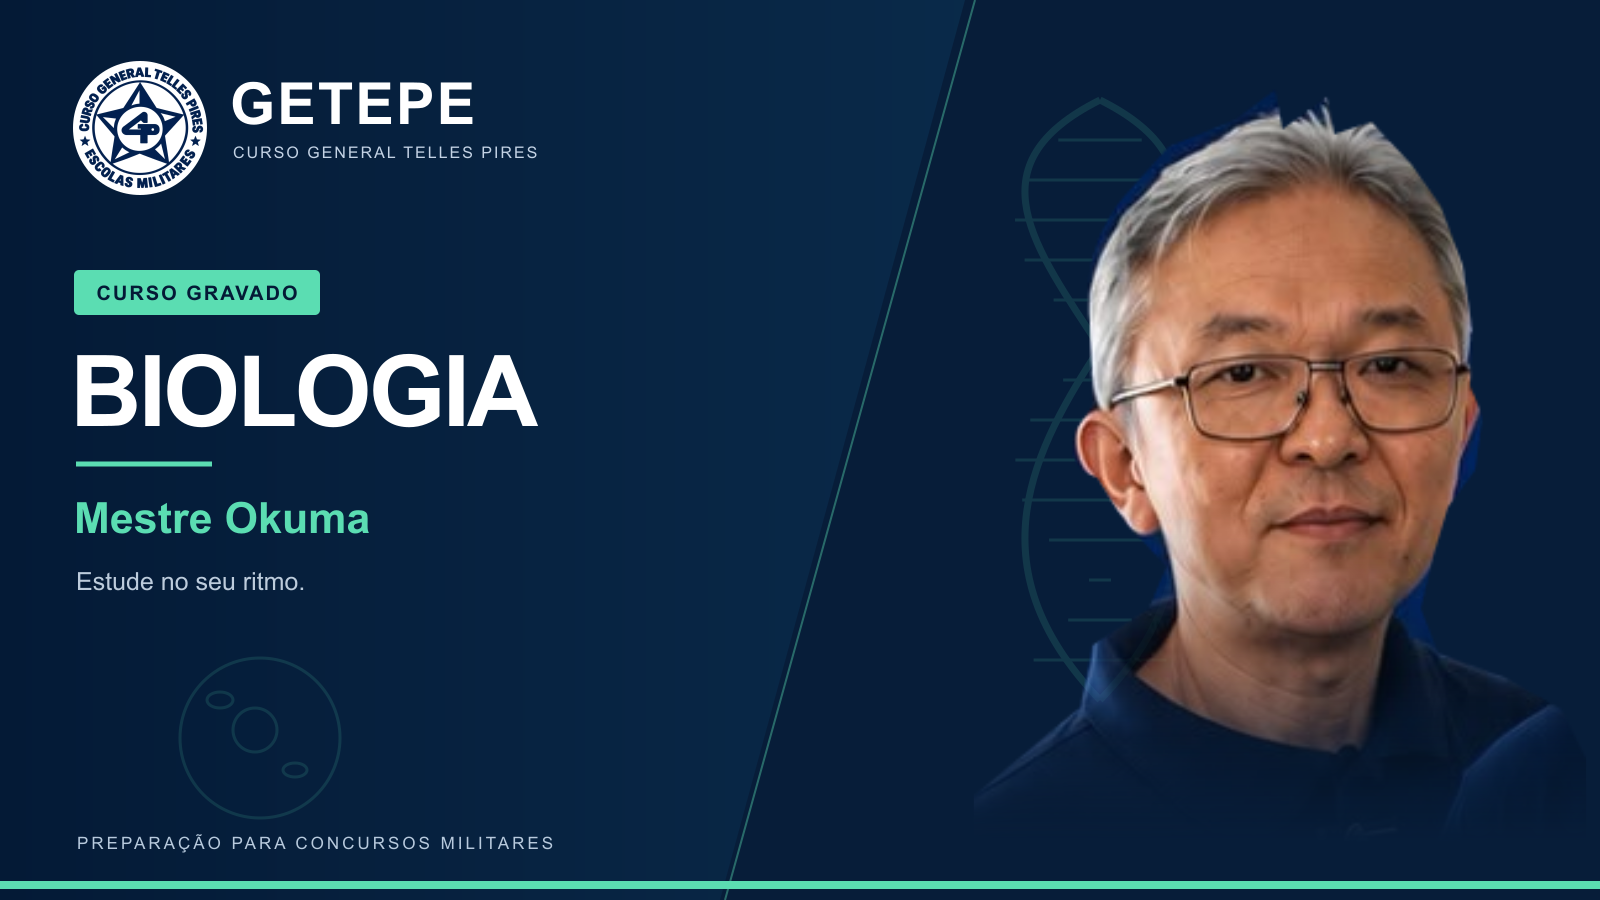
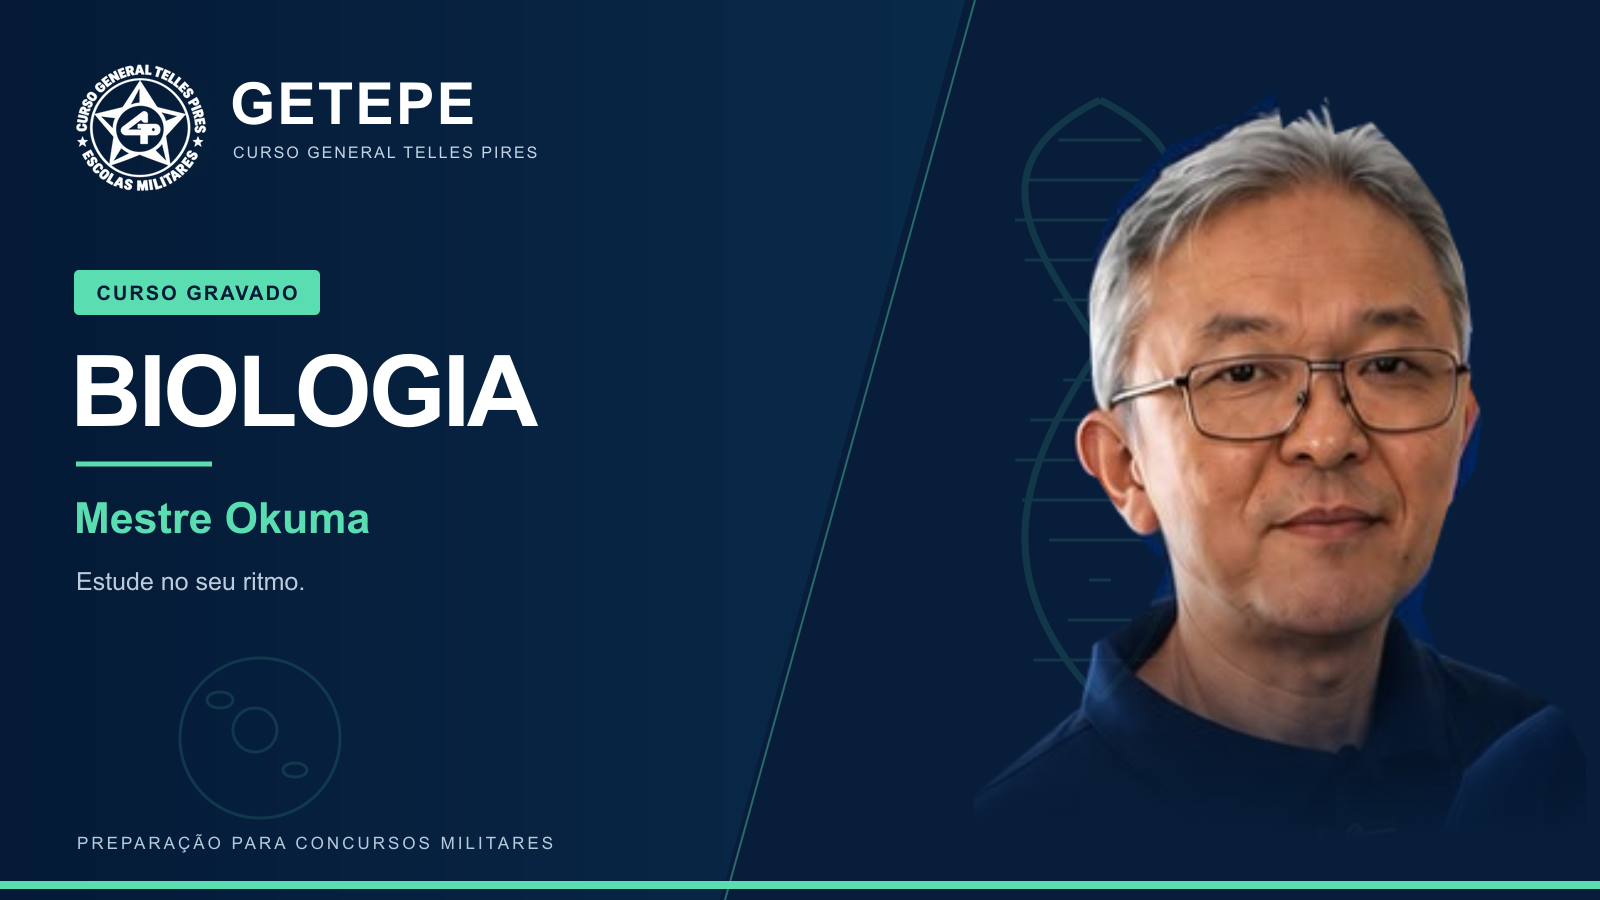
Carrossel: clicar no professor leva ao cartao do curso gravado; artes dos cursos gravados com o selo branco

Changed region(s): [[0.0312, 0.0622, 0.1562, 0.2178]]

diff --git a/public/index.html b/public/index.html
@@ -4,7 +4,7 @@
 <header><a class="brand" href="#inicio"><span class="brand-mark"><img src="logo-marinho-teste.png" alt="Logotipo oficial do Curso General Telles Pires"></span><span>GETEPÊ<small>CURSO GENERAL TELLES PIRES</small></span></a><nav aria-label="Menu principal"><a href="#cursos">Nossos cursos</a><a href="#aula-teste">Aula teste</a><a href="#apostilas">Apostilas</a><a href="#provas">Provas resolvidas</a><a href="#instituicoes">Sobre as instituições</a><a href="#historia">Desde 1953</a><a href="/guias/">Guias e dúvidas</a><a href="/unidade-sao-paulo/">Unidade</a><a href="#newsletter">Comunidade</a><a href="#contato">Contato</a></nav><div class="academy-crests" aria-label="Escolha sua academia"><div class="crests-group crests-left"><a href="#turma/apmbb" title="APMBB · Barro Branco"><img src="/escudos/apmbb.webp" alt="APMBB · Barro Branco" width="153" height="180"></a><a href="#turma/soldado-pm" title="Soldado PMESP"><img src="/escudos/soldado.webp" alt="Soldado PMESP" width="214" height="180"></a><a href="#turma/espcex" title="EsPCEx"><img src="/escudos/espcex.webp" alt="EsPCEx" width="139" height="180"></a><a href="#turma/espcex" title="ESA"><img src="/escudos/esa.webp" alt="ESA" width="140" height="180"></a></div><div class="crests-group crests-right"><a href="#turma/espcex" title="EEAR"><img src="/escudos/eear.webp" alt="EEAR" width="154" height="180"></a><a href="#turma/epcar" title="EPCAr"><img src="/escudos/epcar.webp" alt="EPCAr" width="151" height="180"></a><a href="#turma/epcar" title="Colégio Naval"><img src="/escudos/cn.webp" alt="Colégio Naval" width="119" height="180"></a></div></div></header>
 <h1 class="visually-hidden">GETEPÊ · Curso General Telles Pires: preparação para concursos militares em São Paulo e online</h1>
 <main id="app" tabindex="-1"><div class="wrap" role="status"><p>Carregando o conteúdo do GETEPÊ…</p><noscript><p>Turmas presenciais e online para APMBB · Barro Branco, EPCAR, Colégio Naval e EsPCEx, cursos gravados por matéria, apostilas e provas resolvidas. Ative o JavaScript para ver os cursos ou fale com a equipe pelo WhatsApp (11) 97192-0102.</p></noscript></div></main><footer class="site-footer"><div class="footer-grid"><div><a class="brand" href="#inicio">GETEPÊ</a><p>Tradição que ensina.<br>Preparação que transforma.</p><span>Curso General Telles Pires · Desde 1953</span></div><div><h2>Fale com o GETEPÊ</h2><a href="tel:+551132079399">Telefone: (11) 3207 9399</a><a href="https://wa.me/5511971920102" target="_blank" rel="noopener noreferrer">WhatsApp · Atendimento geral ↗</a><a href="https://wa.me/5511950440102" target="_blank" rel="noopener noreferrer">WhatsApp · Cursos online ↗</a></div><div><h2>Acompanhe nossas redes</h2><a href="https://www.instagram.com/getepe/" target="_blank" rel="noopener noreferrer">Instagram · @getepe ↗</a><a href="https://www.facebook.com/getepe/" target="_blank" rel="noopener noreferrer">Facebook · @getepe ↗</a><p>Rua Vergueiro, 819 · Sobreloja 1 · Liberdade<br>São Paulo — SP</p></div></div><div class="footer-bottom"><span>GETEPÊ · Curso General Telles Pires<br><a href="/privacidade/">Política de privacidade</a> · <a href="#" onclick="if(window.getepeCookies){getepeCookies()}return false">Preferências de cookies</a><br><small>Foto do Colégio Naval: <a href="https://commons.wikimedia.org/wiki/File:Col%C3%A9gio_Naval,_Angra_dos_Reis_2019_55.jpg" target="_blank" rel="noopener noreferrer">Mike Peel</a> · <a href="https://creativecommons.org/licenses/by-sa/4.0/" target="_blank" rel="noopener noreferrer">CC BY-SA 4.0</a> · enquadramento adaptado</small></span></div></footer>
-<dialog id="modal"><button class="close" aria-label="Fechar janela" onclick="document.querySelector('dialog').close()">×</button><div id="modal-content"></div></dialog><script src="/newsletter.js?v=100"></script><script src="app.js?v=98"></script><script src="/exams-managed.js?v=6"></script><script src="/content-runtime.js?v=13"></script><script src="/shared-content.js?v=6"></script><a class="whatsapp-float" href="https://wa.me/5511971920102" target="_blank" rel="noopener noreferrer" aria-label="Fale com a equipe pelo WhatsApp (abre em nova aba)" title="Fale com a equipe pelo WhatsApp"><svg viewBox="0 0 24 24" aria-hidden="true" focusable="false"><path fill="currentColor" d="M20.52 3.48A11.87 11.87 0 0 0 12.05 0C5.47 0 .12 5.35.12 11.93c0 2.1.55 4.15 1.6 5.96L0 24l6.28-1.65a11.93 11.93 0 0 0 5.77 1.47h.01C18.64 23.82 24 18.47 24 11.89c0-3.19-1.24-6.18-3.48-8.41ZM12.06 21.8a9.89 9.89 0 0 1-5.04-1.38l-.36-.21-3.73.98.99-3.64-.24-.37a9.86 9.86 0 0 1-1.52-5.25c0-5.46 4.44-9.91 9.9-9.91a9.83 9.83 0 0 1 7 2.9 9.84 9.84 0 0 1 2.9 7c0 5.46-4.44 9.88-9.9 9.88Zm5.44-7.4c-.3-.15-1.76-.87-2.03-.97-.27-.1-.47-.15-.67.15-.2.3-.77.97-.94 1.17-.17.2-.35.22-.64.07-.3-.15-1.26-.46-2.39-1.47-.88-.79-1.48-1.76-1.65-2.06-.17-.3-.02-.46.13-.61.13-.13.3-.35.45-.52.15-.17.2-.3.3-.5.1-.2.05-.37-.03-.52-.07-.15-.67-1.61-.91-2.2-.24-.58-.49-.5-.67-.51h-.57c-.2 0-.52.07-.79.37-.27.3-1.04 1.02-1.04 2.48s1.07 2.88 1.22 3.08c.15.2 2.1 3.2 5.08 4.49.71.31 1.27.49 1.7.63.71.23 1.35.2 1.86.12.57-.08 1.76-.72 2.01-1.41.25-.7.25-1.29.17-1.41-.07-.12-.27-.2-.57-.35Z"/></svg></a></body></html>
+<dialog id="modal"><button class="close" aria-label="Fechar janela" onclick="document.querySelector('dialog').close()">×</button><div id="modal-content"></div></dialog><script src="/newsletter.js?v=100"></script><script src="app.js?v=99"></script><script src="/exams-managed.js?v=6"></script><script src="/content-runtime.js?v=13"></script><script src="/shared-content.js?v=6"></script><a class="whatsapp-float" href="https://wa.me/5511971920102" target="_blank" rel="noopener noreferrer" aria-label="Fale com a equipe pelo WhatsApp (abre em nova aba)" title="Fale com a equipe pelo WhatsApp"><svg viewBox="0 0 24 24" aria-hidden="true" focusable="false"><path fill="currentColor" d="M20.52 3.48A11.87 11.87 0 0 0 12.05 0C5.47 0 .12 5.35.12 11.93c0 2.1.55 4.15 1.6 5.96L0 24l6.28-1.65a11.93 11.93 0 0 0 5.77 1.47h.01C18.64 23.82 24 18.47 24 11.89c0-3.19-1.24-6.18-3.48-8.41ZM12.06 21.8a9.89 9.89 0 0 1-5.04-1.38l-.36-.21-3.73.98.99-3.64-.24-.37a9.86 9.86 0 0 1-1.52-5.25c0-5.46 4.44-9.91 9.9-9.91a9.83 9.83 0 0 1 7 2.9 9.84 9.84 0 0 1 2.9 7c0 5.46-4.44 9.88-9.9 9.88Zm5.44-7.4c-.3-.15-1.76-.87-2.03-.97-.27-.1-.47-.15-.67.15-.2.3-.77.97-.94 1.17-.17.2-.35.22-.64.07-.3-.15-1.26-.46-2.39-1.47-.88-.79-1.48-1.76-1.65-2.06-.17-.3-.02-.46.13-.61.13-.13.3-.35.45-.52.15-.17.2-.3.3-.5.1-.2.05-.37-.03-.52-.07-.15-.67-1.61-.91-2.2-.24-.58-.49-.5-.67-.51h-.57c-.2 0-.52.07-.79.37-.27.3-1.04 1.02-1.04 2.48s1.07 2.88 1.22 3.08c.15.2 2.1 3.2 5.08 4.49.71.31 1.27.49 1.7.63.71.23 1.35.2 1.86.12.57-.08 1.76-.72 2.01-1.41.25-.7.25-1.29.17-1.41-.07-.12-.27-.2-.57-.35Z"/></svg></a></body></html>
 
 
 

diff --git a/site-shell.html b/site-shell.html
@@ -4,7 +4,7 @@
 <header><a class="brand" href="#inicio"><span class="brand-mark"><img src="logo-marinho-teste.png" alt="Logotipo oficial do Curso General Telles Pires"></span><span>GETEPÊ<small>CURSO GENERAL TELLES PIRES</small></span></a><nav aria-label="Menu principal"><a href="#cursos">Nossos cursos</a><a href="#aula-teste">Aula teste</a><a href="#apostilas">Apostilas</a><a href="#provas">Provas resolvidas</a><a href="#instituicoes">Sobre as instituições</a><a href="#historia">Desde 1953</a><a href="/guias/">Guias e dúvidas</a><a href="/unidade-sao-paulo/">Unidade</a><a href="#newsletter">Comunidade</a><a href="#contato">Contato</a></nav><div class="academy-crests" aria-label="Escolha sua academia"><div class="crests-group crests-left"><a href="#turma/apmbb" title="APMBB · Barro Branco"><img src="/escudos/apmbb.webp" alt="APMBB · Barro Branco" width="153" height="180"></a><a href="#turma/soldado-pm" title="Soldado PMESP"><img src="/escudos/soldado.webp" alt="Soldado PMESP" width="214" height="180"></a><a href="#turma/espcex" title="EsPCEx"><img src="/escudos/espcex.webp" alt="EsPCEx" width="139" height="180"></a><a href="#turma/espcex" title="ESA"><img src="/escudos/esa.webp" alt="ESA" width="140" height="180"></a></div><div class="crests-group crests-right"><a href="#turma/espcex" title="EEAR"><img src="/escudos/eear.webp" alt="EEAR" width="154" height="180"></a><a href="#turma/epcar" title="EPCAr"><img src="/escudos/epcar.webp" alt="EPCAr" width="151" height="180"></a><a href="#turma/epcar" title="Colégio Naval"><img src="/escudos/cn.webp" alt="Colégio Naval" width="119" height="180"></a></div></div></header>
 <h1 class="visually-hidden">GETEPÊ · Curso General Telles Pires: preparação para concursos militares em São Paulo e online</h1>
 <main id="app" tabindex="-1"><div class="wrap" role="status"><p>Carregando o conteúdo do GETEPÊ…</p><noscript><p>Turmas presenciais e online para APMBB · Barro Branco, EPCAR, Colégio Naval e EsPCEx, cursos gravados por matéria, apostilas e provas resolvidas. Ative o JavaScript para ver os cursos ou fale com a equipe pelo WhatsApp (11) 97192-0102.</p></noscript></div></main><footer class="site-footer"><div class="footer-grid"><div><a class="brand" href="#inicio">GETEPÊ</a><p>Tradição que ensina.<br>Preparação que transforma.</p><span>Curso General Telles Pires · Desde 1953</span></div><div><h2>Fale com o GETEPÊ</h2><a href="tel:+551132079399">Telefone: (11) 3207 9399</a><a href="https://wa.me/5511971920102" target="_blank" rel="noopener noreferrer">WhatsApp · Atendimento geral ↗</a><a href="https://wa.me/5511950440102" target="_blank" rel="noopener noreferrer">WhatsApp · Cursos online ↗</a></div><div><h2>Acompanhe nossas redes</h2><a href="https://www.instagram.com/getepe/" target="_blank" rel="noopener noreferrer">Instagram · @getepe ↗</a><a href="https://www.facebook.com/getepe/" target="_blank" rel="noopener noreferrer">Facebook · @getepe ↗</a><p>Rua Vergueiro, 819 · Sobreloja 1 · Liberdade<br>São Paulo — SP</p></div></div><div class="footer-bottom"><span>GETEPÊ · Curso General Telles Pires<br><a href="/privacidade/">Política de privacidade</a> · <a href="#" onclick="if(window.getepeCookies){getepeCookies()}return false">Preferências de cookies</a><br><small>Foto do Colégio Naval: <a href="https://commons.wikimedia.org/wiki/File:Col%C3%A9gio_Naval,_Angra_dos_Reis_2019_55.jpg" target="_blank" rel="noopener noreferrer">Mike Peel</a> · <a href="https://creativecommons.org/licenses/by-sa/4.0/" target="_blank" rel="noopener noreferrer">CC BY-SA 4.0</a> · enquadramento adaptado</small></span></div></footer>
-<dialog id="modal"><button class="close" aria-label="Fechar janela" onclick="document.querySelector('dialog').close()">×</button><div id="modal-content"></div></dialog><script src="/newsletter.js?v=100"></script><script src="app.js?v=98"></script><script src="/exams-managed.js?v=6"></script><script src="/content-runtime.js?v=13"></script><script src="/shared-content.js?v=6"></script><a class="whatsapp-float" href="https://wa.me/5511971920102" target="_blank" rel="noopener noreferrer" aria-label="Fale com a equipe pelo WhatsApp (abre em nova aba)" title="Fale com a equipe pelo WhatsApp"><svg viewBox="0 0 24 24" aria-hidden="true" focusable="false"><path fill="currentColor" d="M20.52 3.48A11.87 11.87 0 0 0 12.05 0C5.47 0 .12 5.35.12 11.93c0 2.1.55 4.15 1.6 5.96L0 24l6.28-1.65a11.93 11.93 0 0 0 5.77 1.47h.01C18.64 23.82 24 18.47 24 11.89c0-3.19-1.24-6.18-3.48-8.41ZM12.06 21.8a9.89 9.89 0 0 1-5.04-1.38l-.36-.21-3.73.98.99-3.64-.24-.37a9.86 9.86 0 0 1-1.52-5.25c0-5.46 4.44-9.91 9.9-9.91a9.83 9.83 0 0 1 7 2.9 9.84 9.84 0 0 1 2.9 7c0 5.46-4.44 9.88-9.9 9.88Zm5.44-7.4c-.3-.15-1.76-.87-2.03-.97-.27-.1-.47-.15-.67.15-.2.3-.77.97-.94 1.17-.17.2-.35.22-.64.07-.3-.15-1.26-.46-2.39-1.47-.88-.79-1.48-1.76-1.65-2.06-.17-.3-.02-.46.13-.61.13-.13.3-.35.45-.52.15-.17.2-.3.3-.5.1-.2.05-.37-.03-.52-.07-.15-.67-1.61-.91-2.2-.24-.58-.49-.5-.67-.51h-.57c-.2 0-.52.07-.79.37-.27.3-1.04 1.02-1.04 2.48s1.07 2.88 1.22 3.08c.15.2 2.1 3.2 5.08 4.49.71.31 1.27.49 1.7.63.71.23 1.35.2 1.86.12.57-.08 1.76-.72 2.01-1.41.25-.7.25-1.29.17-1.41-.07-.12-.27-.2-.57-.35Z"/></svg></a></body></html>
+<dialog id="modal"><button class="close" aria-label="Fechar janela" onclick="document.querySelector('dialog').close()">×</button><div id="modal-content"></div></dialog><script src="/newsletter.js?v=100"></script><script src="app.js?v=99"></script><script src="/exams-managed.js?v=6"></script><script src="/content-runtime.js?v=13"></script><script src="/shared-content.js?v=6"></script><a class="whatsapp-float" href="https://wa.me/5511971920102" target="_blank" rel="noopener noreferrer" aria-label="Fale com a equipe pelo WhatsApp (abre em nova aba)" title="Fale com a equipe pelo WhatsApp"><svg viewBox="0 0 24 24" aria-hidden="true" focusable="false"><path fill="currentColor" d="M20.52 3.48A11.87 11.87 0 0 0 12.05 0C5.47 0 .12 5.35.12 11.93c0 2.1.55 4.15 1.6 5.96L0 24l6.28-1.65a11.93 11.93 0 0 0 5.77 1.47h.01C18.64 23.82 24 18.47 24 11.89c0-3.19-1.24-6.18-3.48-8.41ZM12.06 21.8a9.89 9.89 0 0 1-5.04-1.38l-.36-.21-3.73.98.99-3.64-.24-.37a9.86 9.86 0 0 1-1.52-5.25c0-5.46 4.44-9.91 9.9-9.91a9.83 9.83 0 0 1 7 2.9 9.84 9.84 0 0 1 2.9 7c0 5.46-4.44 9.88-9.9 9.88Zm5.44-7.4c-.3-.15-1.76-.87-2.03-.97-.27-.1-.47-.15-.67.15-.2.3-.77.97-.94 1.17-.17.2-.35.22-.64.07-.3-.15-1.26-.46-2.39-1.47-.88-.79-1.48-1.76-1.65-2.06-.17-.3-.02-.46.13-.61.13-.13.3-.35.45-.52.15-.17.2-.3.3-.5.1-.2.05-.37-.03-.52-.07-.15-.67-1.61-.91-2.2-.24-.58-.49-.5-.67-.51h-.57c-.2 0-.52.07-.79.37-.27.3-1.04 1.02-1.04 2.48s1.07 2.88 1.22 3.08c.15.2 2.1 3.2 5.08 4.49.71.31 1.27.49 1.7.63.71.23 1.35.2 1.86.12.57-.08 1.76-.72 2.01-1.41.25-.7.25-1.29.17-1.41-.07-.12-.27-.2-.57-.35Z"/></svg></a></body></html>
 
 
 

diff --git a/public/app.js b/public/app.js
@@ -161,6 +161,10 @@ document.addEventListener('touchend',e=>{if(x0===null||typeof changeSlide!=='fun
 })();
 // Escudo do cabeçalho: se o endereço já é o do curso (ex.: EsPCEx e depois EEAR, que levam ao mesmo cartão), rola e destaca de novo.
 document.addEventListener('click',e=>{const a=e.target.closest&&e.target.closest('.academy-crests a');if(a&&location.hash===a.getAttribute('href')){e.preventDefault();route()}});
+// Carrossel dos cursos gravados: clicar num professor leva ao cartão do curso dele, como os escudos. As faixas são frações da arte (largura e altura), uma por versão da imagem.
+const TEACHER_ZONES={desktop:{y:[.05,.92],x:[['portugues',.345,.555],['matematica',.555,.775],['biologia',.775,.985]]},celular:{y:[.28,.93],x:[['portugues',0,.335],['matematica',.335,.665],['biologia',.665,1]]},tablet:{y:[.26,.88],x:[['portugues',.03,.225],['matematica',.225,.42],['biologia',.42,.6]]}};
+function imageContentPoint(img,cx,cy){const r=img.getBoundingClientRect(),nw=img.naturalWidth,nh=img.naturalHeight;if(!nw||!nh||!r.width||!r.height)return null;const cs=getComputedStyle(img),fit=cs.objectFit;let w=r.width,h=r.height;if(fit==='contain'||fit==='scale-down'){const s=Math.min(r.width/nw,r.height/nh);w=nw*s;h=nh*s}else if(fit==='cover'){const s=Math.max(r.width/nw,r.height/nh);w=nw*s;h=nh*s}else if(fit==='none'){w=nw;h=nh}const pos=(cs.objectPosition||'50% 50%').split(/\s+/),off=(v,free)=>{v=v||'50%';if(v==='left'||v==='top')return 0;if(v==='right'||v==='bottom')return free;if(v==='center')return free/2;return v.endsWith('%')?free*parseFloat(v)/100:parseFloat(v)||0};const x0=r.left+off(pos[0],r.width-w),y0=r.top+off(pos[1],r.height-h);return{x:(cx-x0)/w,y:(cy-y0)/h}}
+document.addEventListener('click',e=>{const img=e.target.closest&&e.target.closest('.campaign-banner[data-art="carrossel-cursos-gravados"]>a img');if(!img)return;const src=img.currentSrc||img.src,z=TEACHER_ZONES[/-celular/.test(src)?'celular':/-tablet/.test(src)?'tablet':'desktop'],p=imageContentPoint(img,e.clientX,e.clientY);if(!p||p.y<z.y[0]||p.y>z.y[1])return;const hit=z.x.find(([,a,b])=>p.x>=a&&p.x<b);if(!hit)return;e.preventDefault();const target='#turma/'+hit[0];if(location.hash===target)route();else location.hash=target});
 
 // Chamadas por onclick/onsubmit nos modelos HTML acima.
 Object.assign(window,{setFilter,openTrialForm,submitTrialForm,openHistoryImage,examCards,examFilter,examYear});
